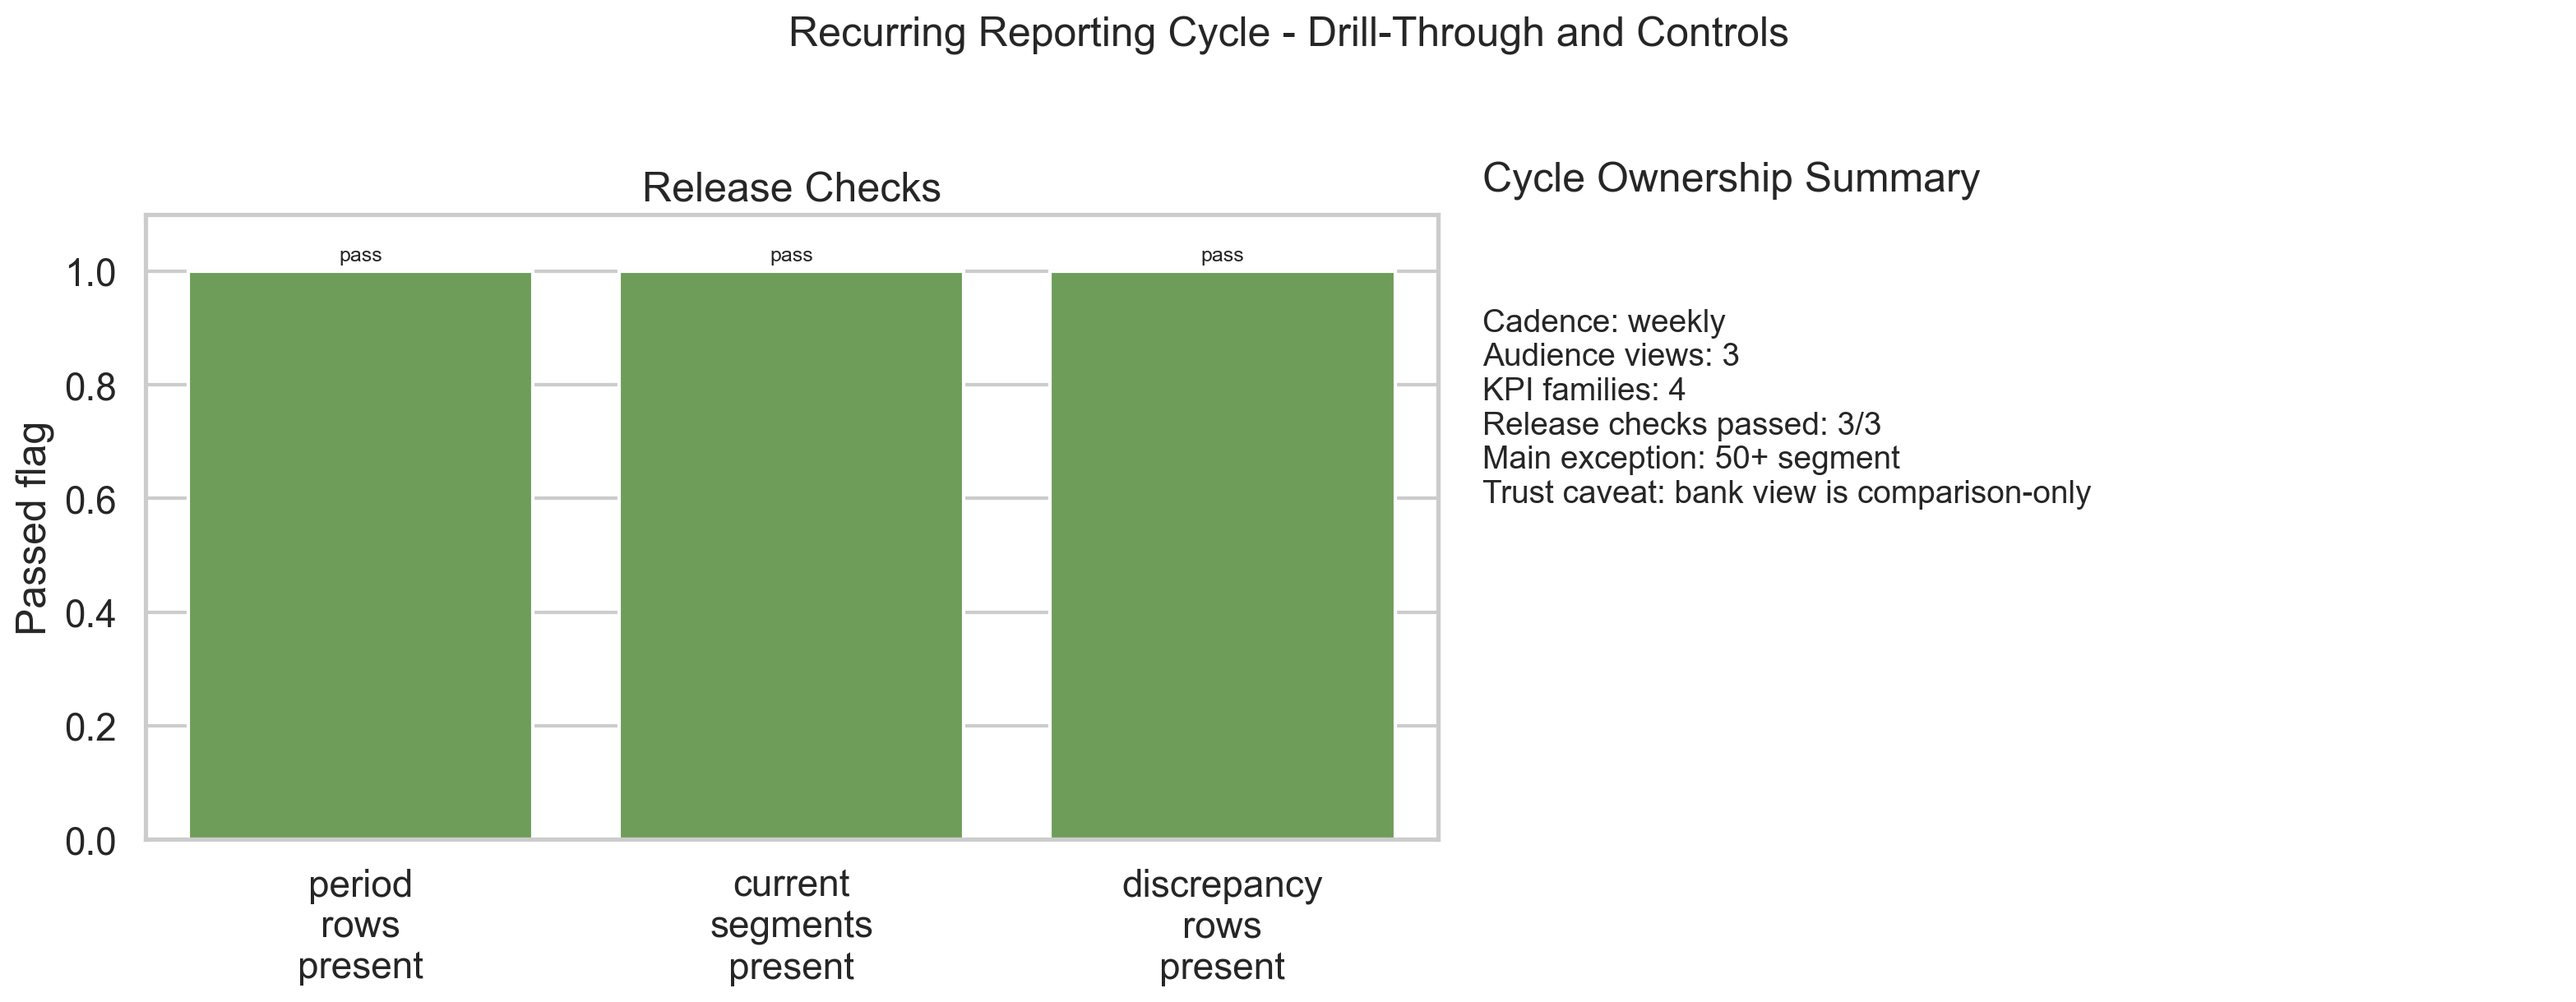
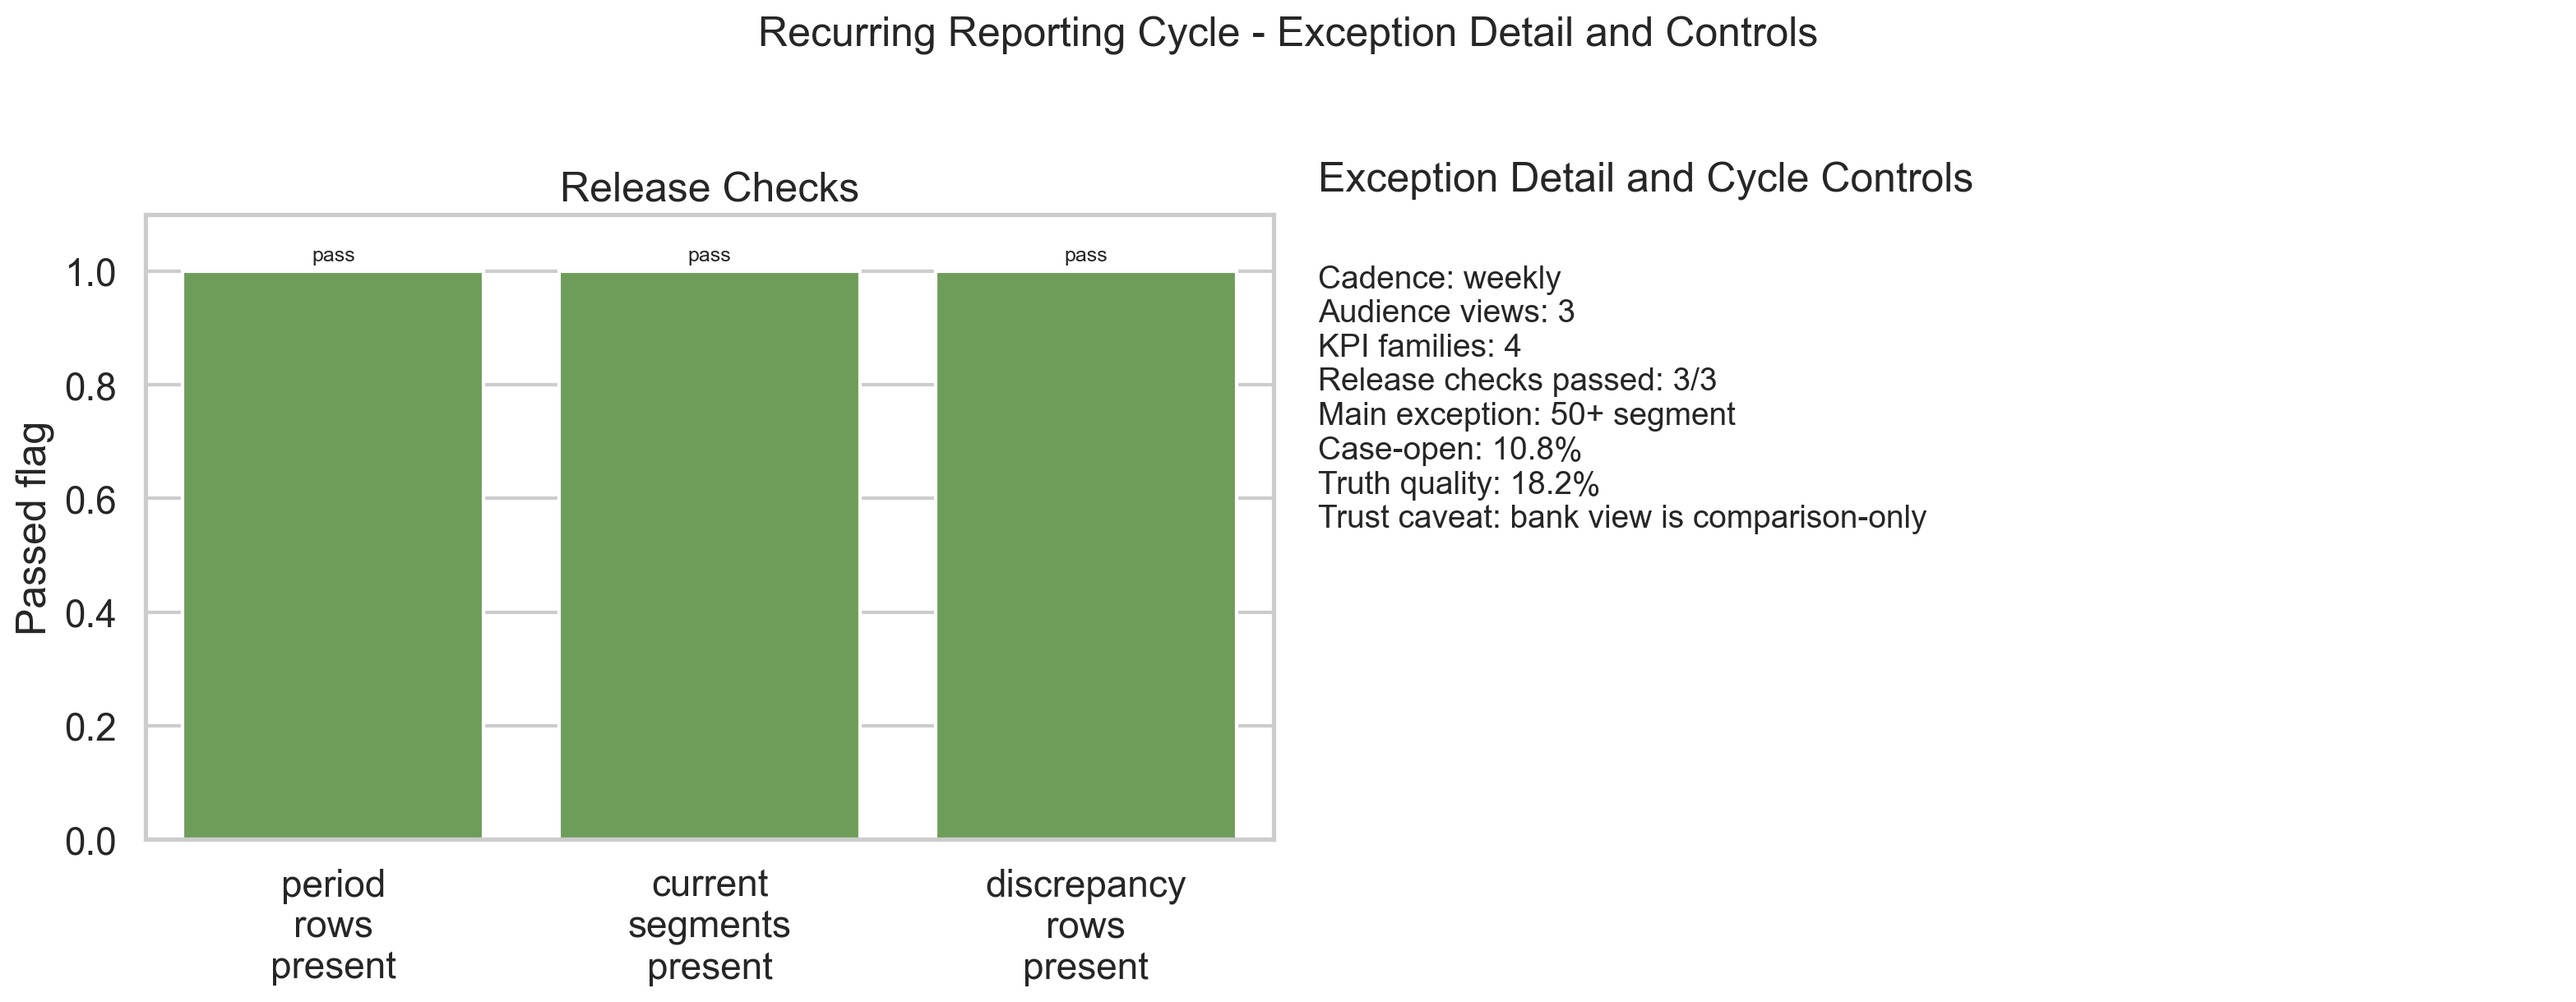
Refine reporting cycle documentation and visuals by updating page titles, enhancing clarity in exception detail and controls, and adjusting regeneration timing metrics in execution report.

diff --git a/artefacts/analytics_slices/data_analyst/huc/02_reporting_cycle_ownership/models/build_reporting_cycle_ownership.py b/artefacts/analytics_slices/data_analyst/huc/02_reporting_cycle_ownership/models/build_reporting_cycle_ownership.py
@@ -304,9 +304,9 @@ def main() -> None:
         - focuses on conversion, burden, and the quality-trust caveat
         - should remain the main page for operational interpretation
 
-        Page 3 - Drill-through and detail:
-        - focuses on the exception segment and the reason it matters
-        - keeps the interpretation note visible so the page is not just a detail table
+        Page 3 - Exception detail and controls:
+        - carries the recurring exception summary and the release-control posture together
+        - makes clear that the slice is proving reporting ownership and rerun discipline, not a deeper row-level drill-through surface
         """,
     )
 
@@ -485,6 +485,16 @@ def main() -> None:
             padding=3,
             fontsize=8.5,
         )
+    axes[0].text(
+        0.02,
+        -0.26,
+        "Trust note: bank-view quality is comparison-only.\nAuthoritative truth remains the KPI source for outcome quality.",
+        transform=axes[0].transAxes,
+        fontsize=9.5,
+        va="top",
+        ha="left",
+        color="#7a0000",
+    )
 
     current_exception = exception_df.copy()
     current_exception["amount_band_short"] = current_exception["amount_band"].map(short_band)
@@ -532,7 +542,7 @@ def main() -> None:
     fig.savefig(FIGURES_DIR / "operational_performance_view.png", dpi=200, bbox_inches="tight")
     plt.close(fig)
 
-    fig, axes = plt.subplots(1, 2, figsize=(16, 6), gridspec_kw={"width_ratios": [1.2, 1.0]})
+    fig, axes = plt.subplots(1, 2, figsize=(16, 6), gridspec_kw={"width_ratios": [1.0, 1.1]})
     checklist_plot = release_df.copy()
     checklist_plot["check_label"] = checklist_plot["check_name"].str.replace("_", "\n")
     sns.barplot(
@@ -552,22 +562,24 @@ def main() -> None:
         axes[0].bar_label(container, labels=["pass" if v >= 1 else "fail" for v in container.datavalues], padding=3, fontsize=9)
 
     axes[1].axis("off")
-    axes[1].set_title("Cycle Ownership Summary", loc="left", pad=10)
+    axes[1].set_title("Exception Detail and Cycle Controls", loc="left", pad=10)
     axes[1].text(
         0.0,
-        0.85,
+        0.92,
         (
             f"Cadence: weekly\n"
             f"Audience views: 3\n"
             f"KPI families: 4\n"
             f"Release checks passed: {release_pass_count}/{release_check_count}\n"
             f"Main exception: 50+ segment\n"
+            f"Case-open: {short_pct(float(top_segment['case_open_rate']))}\n"
+            f"Truth quality: {short_pct(float(top_segment['case_truth_rate']))}\n"
             f"Trust caveat: bank view is comparison-only"
         ),
         fontsize=14,
         va="top",
     )
-    fig.suptitle("Recurring Reporting Cycle - Drill-Through and Controls", fontsize=18, y=1.02)
+    fig.suptitle("Recurring Reporting Cycle - Exception Detail and Controls", fontsize=18, y=1.02)
     fig.tight_layout()
     fig.savefig(FIGURES_DIR / "drillthrough_and_controls.png", dpi=200, bbox_inches="tight")
     plt.close(fig)
@@ -587,9 +599,9 @@ def main() -> None:
 
         ![Operational performance view](figures/operational_performance_view.png)
 
-        ## Page 3 - Drill-Through and Controls
+        ## Page 3 - Exception Detail and Controls
 
-        ![Drill-through and controls](figures/drillthrough_and_controls.png)
+        ![Exception detail and controls](figures/drillthrough_and_controls.png)
         """,
     )
 

diff --git a/docs/experience_lake/outward-facing-assets/analytics-role-lenses/data_analyst/huc/02_reporting_cycle_ownership/execution_report.md b/docs/experience_lake/outward-facing-assets/analytics-role-lenses/data_analyst/huc/02_reporting_cycle_ownership/execution_report.md
@@ -32,7 +32,7 @@ The bounded answer is:
   - case-open conversion
   - long-lifecycle burden
   - authoritative outcome quality
-- one recurring `3`-page service-line pack was delivered with distinct executive, operational, and drill-through-plus-controls views
+- one recurring `3`-page service-line pack was delivered with distinct executive, operational, and exception-detail-plus-controls views
 - one requirements note, one process map, one stakeholder view matrix, one KPI purpose note, one KPI definition sheet, one run checklist, one caveat note, one changelog, and one regeneration README were all produced for the same cycle
 - the cycle passes `3` out of `3` release checks and can be regenerated from compact governed inputs in about `2.14` seconds
 - the current-cycle topline remains stable, while the recurring exception remains the `50_plus` amount band with `10.78%` case-open rate and `18.23%` authoritative truth quality
@@ -72,7 +72,7 @@ The execution stayed aligned to the approved HUC `3B + 3C` slice rather than dri
 The delivered scope maps back to the planned lens responsibilities as follows:
 - `05 - Business Analysis, Change, and Decision Support`: reporting requirements note, process map, stakeholder view matrix, and KPI purpose notes
 - `01 - Operational Performance Analytics`: stable KPI family, current-versus-prior interpretation layer, `what changed` note, and intervention note
-- `02 - BI, Insight, and Reporting Analytics`: one recurring three-page pack with explicit executive, operational, and drill-through-plus-controls structure
+- `02 - BI, Insight, and Reporting Analytics`: one recurring three-page pack with explicit executive, operational, and exception-detail-plus-controls structure
 - `09 - Analytical Delivery Operating Discipline`: KPI definition sheet, run checklist, caveats note, changelog, regeneration README, and release checks
 
 The report therefore needs to be read as proof that one reporting lane was defined, owned, and made repeatable, not as proof that every HUC reporting requirement has already been industrialised.
@@ -213,25 +213,27 @@ Delivered components:
 - current-versus-prior KPI comparison
 - exception-segment gap view
 - direct comparison between case-open rate and authoritative truth quality
+- on-figure trust note stating that bank-view quality is comparison-only
 
 The strongest operational reading on this page is:
 - the weekly cycle should keep surfacing the `50+` segment as the main operational exception
 - the trust caveat is still necessary when talking about outcome quality
 
-### 6.3 Page 3 - Drill-through and controls
+### 6.3 Page 3 - Exception detail and controls
 
 The third page was designed to answer:
+- what recurring exception is the cycle carrying?
 - what control posture does this reporting cycle have?
 - does the pack have real release discipline?
-- what should the reader conclude about cycle ownership?
 
 Delivered components:
+- exception summary for the `50+` segment
 - release-check status
 - cycle-ownership summary
 - on-page statement of cadence, audience count, KPI family count, and trust caveat
 
 This is what turns the slice into reporting ownership rather than another service-line pack:
-- the page makes the rerun and release-control posture visible
+- the page keeps the recurring exception visible while also making the rerun and release-control posture visible
 - it shows that the reporting cycle is documented and controlled
 
 ## 7. Figures
@@ -256,11 +258,12 @@ This page carries the operational story:
 - the exception segment gap is made explicit rather than buried in a dense table
 - the pack still keeps the trust caveat visible
 
-### 7.3 Drill-through and controls
+### 7.3 Exception detail and controls
 
-![Drill-through and controls](../../../../../../../artefacts/analytics_slices/data_analyst/huc/02_reporting_cycle_ownership/figures/drillthrough_and_controls.png)
+![Exception detail and controls](../../../../../../../artefacts/analytics_slices/data_analyst/huc/02_reporting_cycle_ownership/figures/drillthrough_and_controls.png)
 
 This page carries the ownership story:
+- the recurring exception remains visible rather than being separated from the cycle controls
 - all release checks are visible
 - cycle cadence and pack structure are explicit
 - the pack reads as a controlled reporting cycle rather than an ad hoc export
@@ -316,13 +319,13 @@ The requirement asks for someone who can:
 - translate requirements into reporting outputs that different audiences can use
 
 The claim therefore needs to answer back in evidence form:
-- I have taken ownership of a bounded recurring reporting lane
+- I have taken ownership of a bounded recurring reporting lane rather than only producing one pack once
 - I have pinned stable KPI and pack logic rather than redefining the reporting every cycle
-- I have documented rerun and release controls so the reporting cycle is actually ownable
+- I have documented rerun and release controls so the reporting cycle is actually ownable and supportable on time
 
 ### 10.1 Flagship `X by Y by Z` claim
 
-> Owned a recurring service-line performance reporting cycle, as measured by stable reuse of `4` KPI families across `3` audience-shaped reporting pages, completion of `3/3` release checks for the weekly pack, and regeneration of the full output from controlled compact inputs in `2.14` seconds, by mapping stakeholder reporting needs into a bounded KPI framework, packaging the current-versus-prior service-line view into a structured recurring pack, and documenting the run logic, caveats, and release controls needed to keep the cycle stable and usable.
+> Owned a recurring service-line performance reporting cycle, as measured by stable reuse of `4` KPI families across `3` reporting views for operations and leadership, completion of `3/3` release checks for the weekly pack, and regeneration of the full output from controlled compact inputs in `2.14` seconds, by translating stakeholder reporting requirements into a bounded KPI framework, packaging the current-versus-prior service-line view into a structured recurring pack, and documenting the run logic, caveats, and release controls needed to keep the cycle stable, repeatable, and usable.
 
 ### 10.2 Shorter recruiter-facing version
 
@@ -330,4 +333,4 @@ The claim therefore needs to answer back in evidence form:
 
 ### 10.3 Closer direct-response version
 
-> Took ownership of recurring performance reporting in a target-driven environment, as measured by reusable KPI logic, controlled weekly pack regeneration, and clear executive and operational tracking across periods, by defining the reporting requirements, building the governed KPI layer, packaging the outputs into service-line reports, and maintaining the checklist, caveat, and change-control notes needed to keep the cycle stable and usable.
+> Took ownership of recurring performance reporting in a target-driven environment, as measured by reusable KPI logic, controlled weekly pack regeneration, and clear executive and operational tracking across periods, by defining the reporting requirements, building the governed KPI layer, packaging the outputs into service-line reports, and maintaining the checklist, caveat, and change-control notes needed to keep the cycle stable, on time, and usable.

diff --git a/artefacts/analytics_slices/data_analyst/huc/02_reporting_cycle_ownership/service_line_page_notes_v1.md b/artefacts/analytics_slices/data_analyst/huc/02_reporting_cycle_ownership/service_line_page_notes_v1.md
@@ -8,6 +8,6 @@ Page 2 - Operational performance:
 - focuses on conversion, burden, and the quality-trust caveat
 - should remain the main page for operational interpretation
 
-Page 3 - Drill-through and detail:
-- focuses on the exception segment and the reason it matters
-- keeps the interpretation note visible so the page is not just a detail table
+Page 3 - Exception detail and controls:
+- carries the recurring exception summary and the release-control posture together
+- makes clear that the slice is proving reporting ownership and rerun discipline, not a deeper row-level drill-through surface

diff --git a/artefacts/analytics_slices/data_analyst/huc/02_reporting_cycle_ownership/service_line_reporting_pack_v1.md b/artefacts/analytics_slices/data_analyst/huc/02_reporting_cycle_ownership/service_line_reporting_pack_v1.md
@@ -10,6 +10,6 @@ This pack operationalises one owned weekly service-line reporting cycle into thr
 
 ![Operational performance view](figures/operational_performance_view.png)
 
-## Page 3 - Drill-Through and Controls
+## Page 3 - Exception Detail and Controls
 
-![Drill-through and controls](figures/drillthrough_and_controls.png)
+![Exception detail and controls](figures/drillthrough_and_controls.png)
